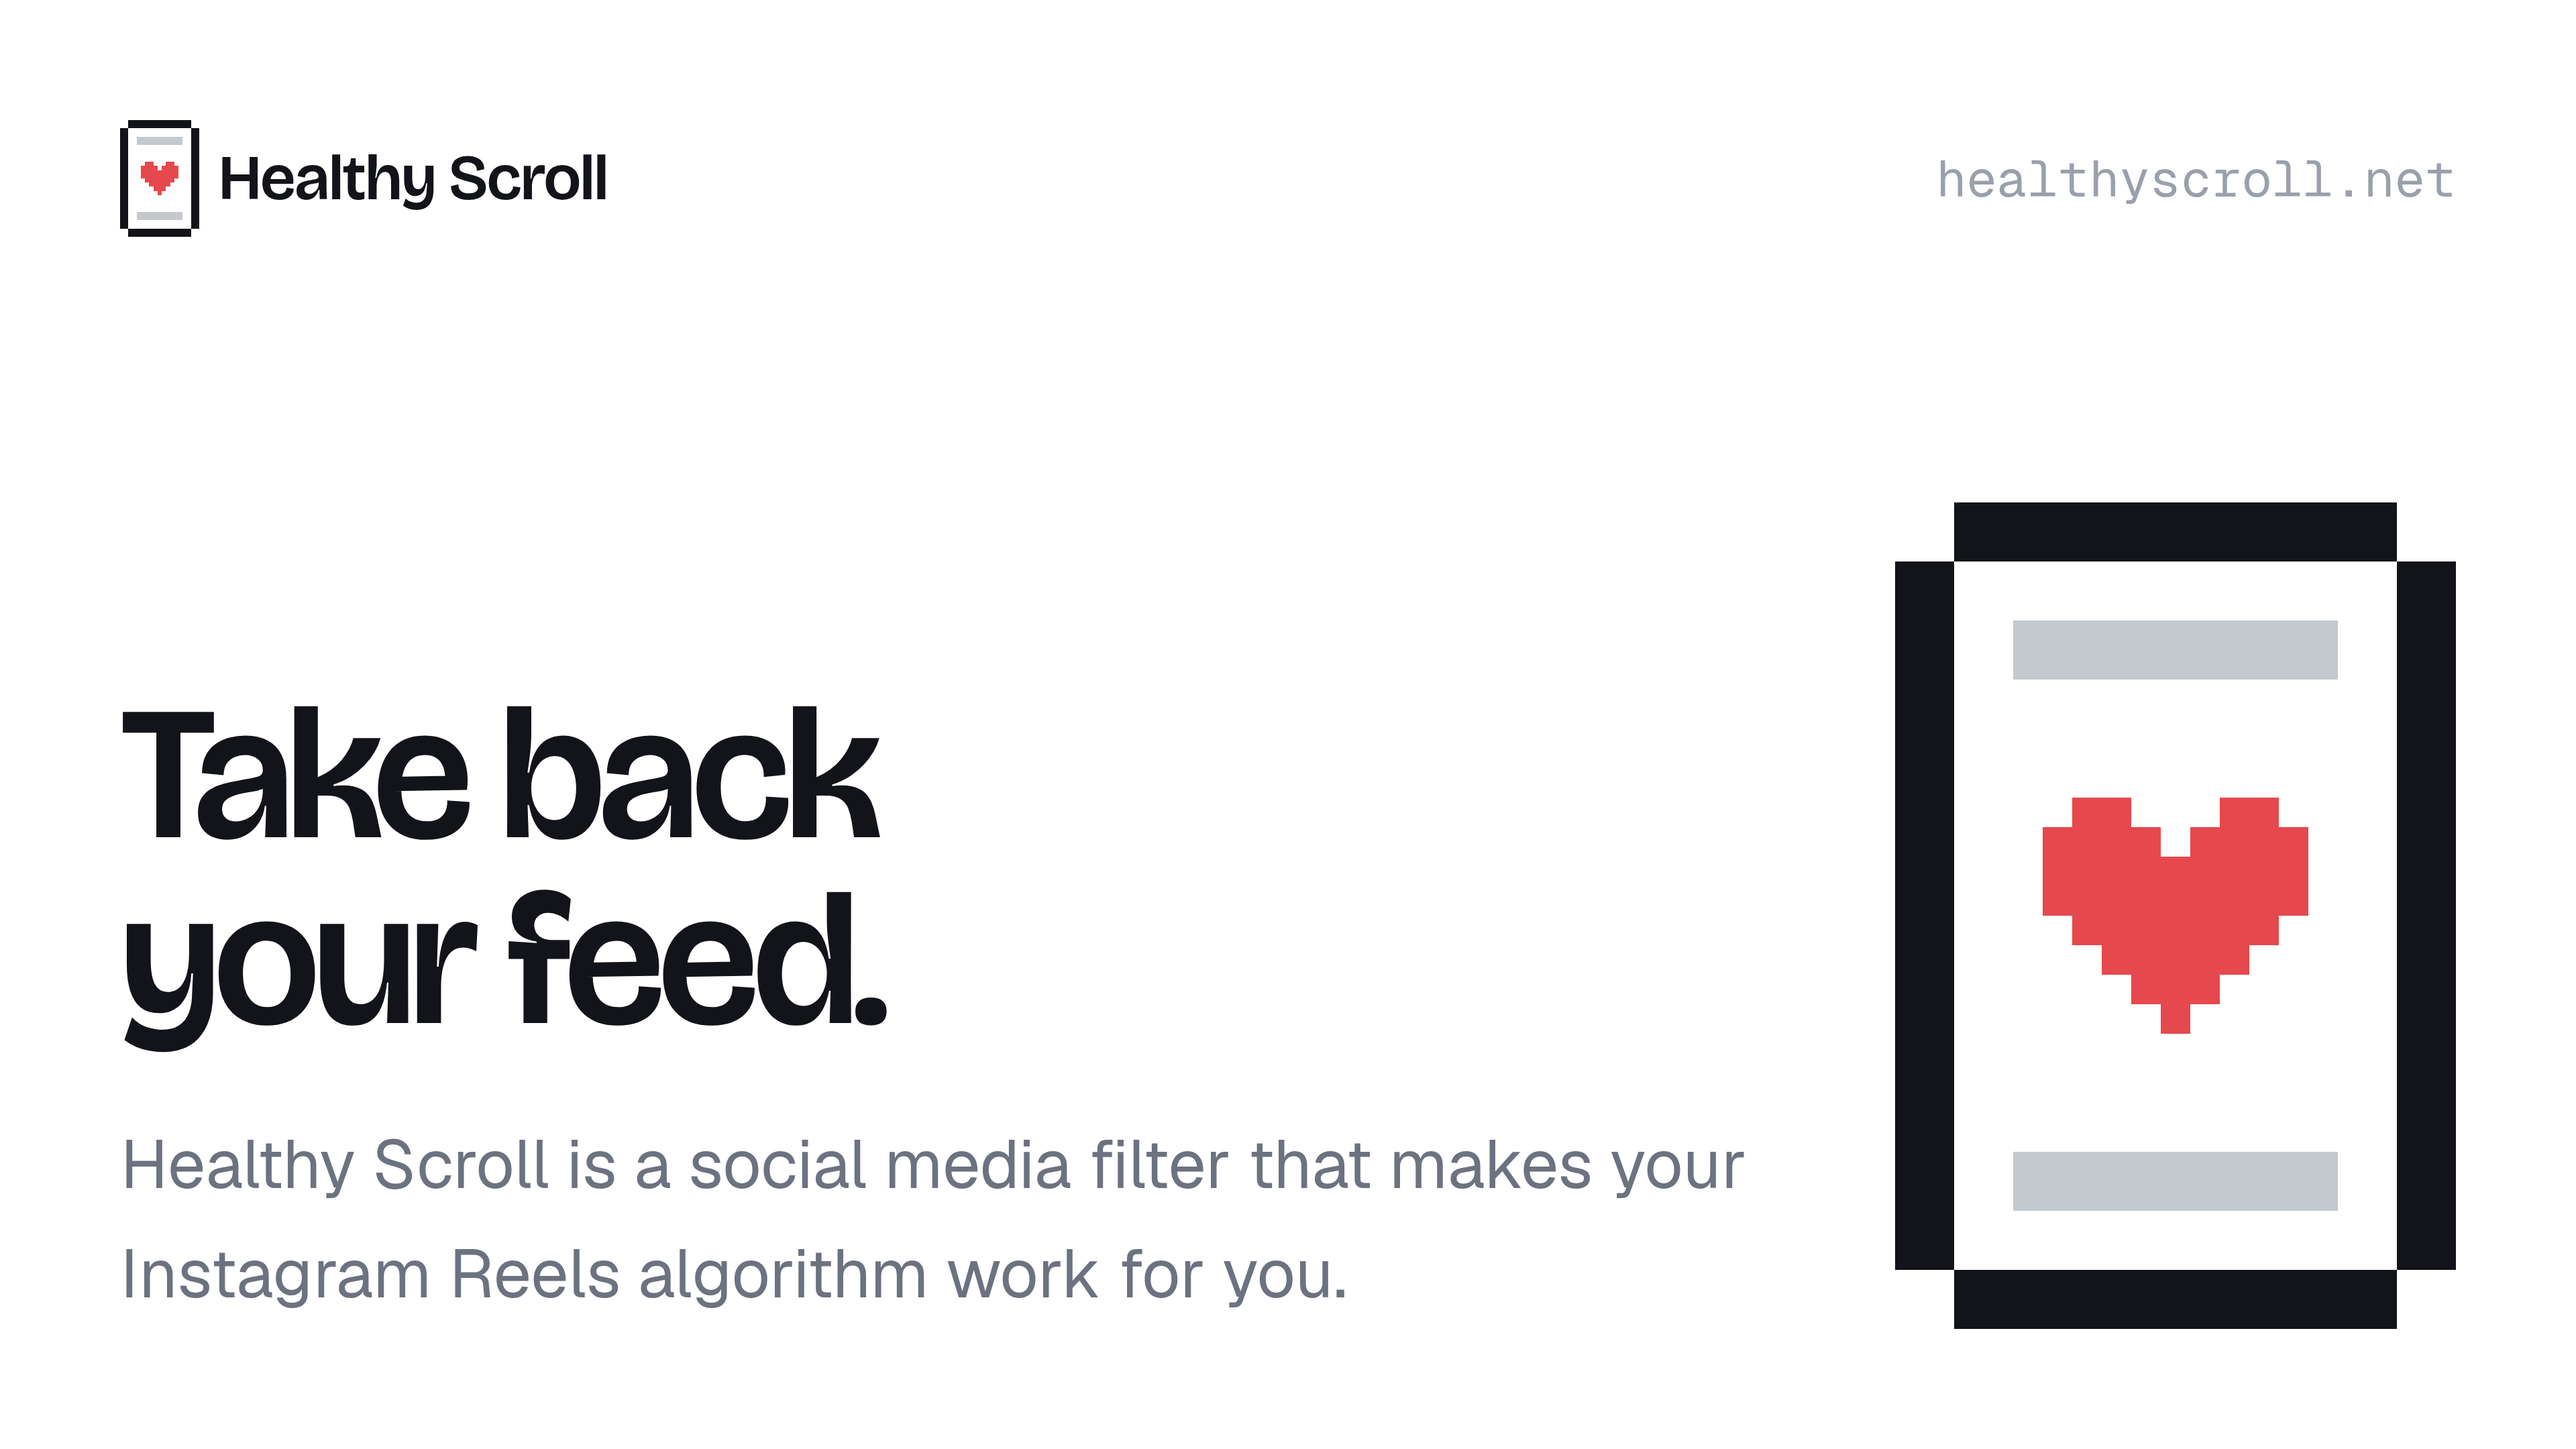
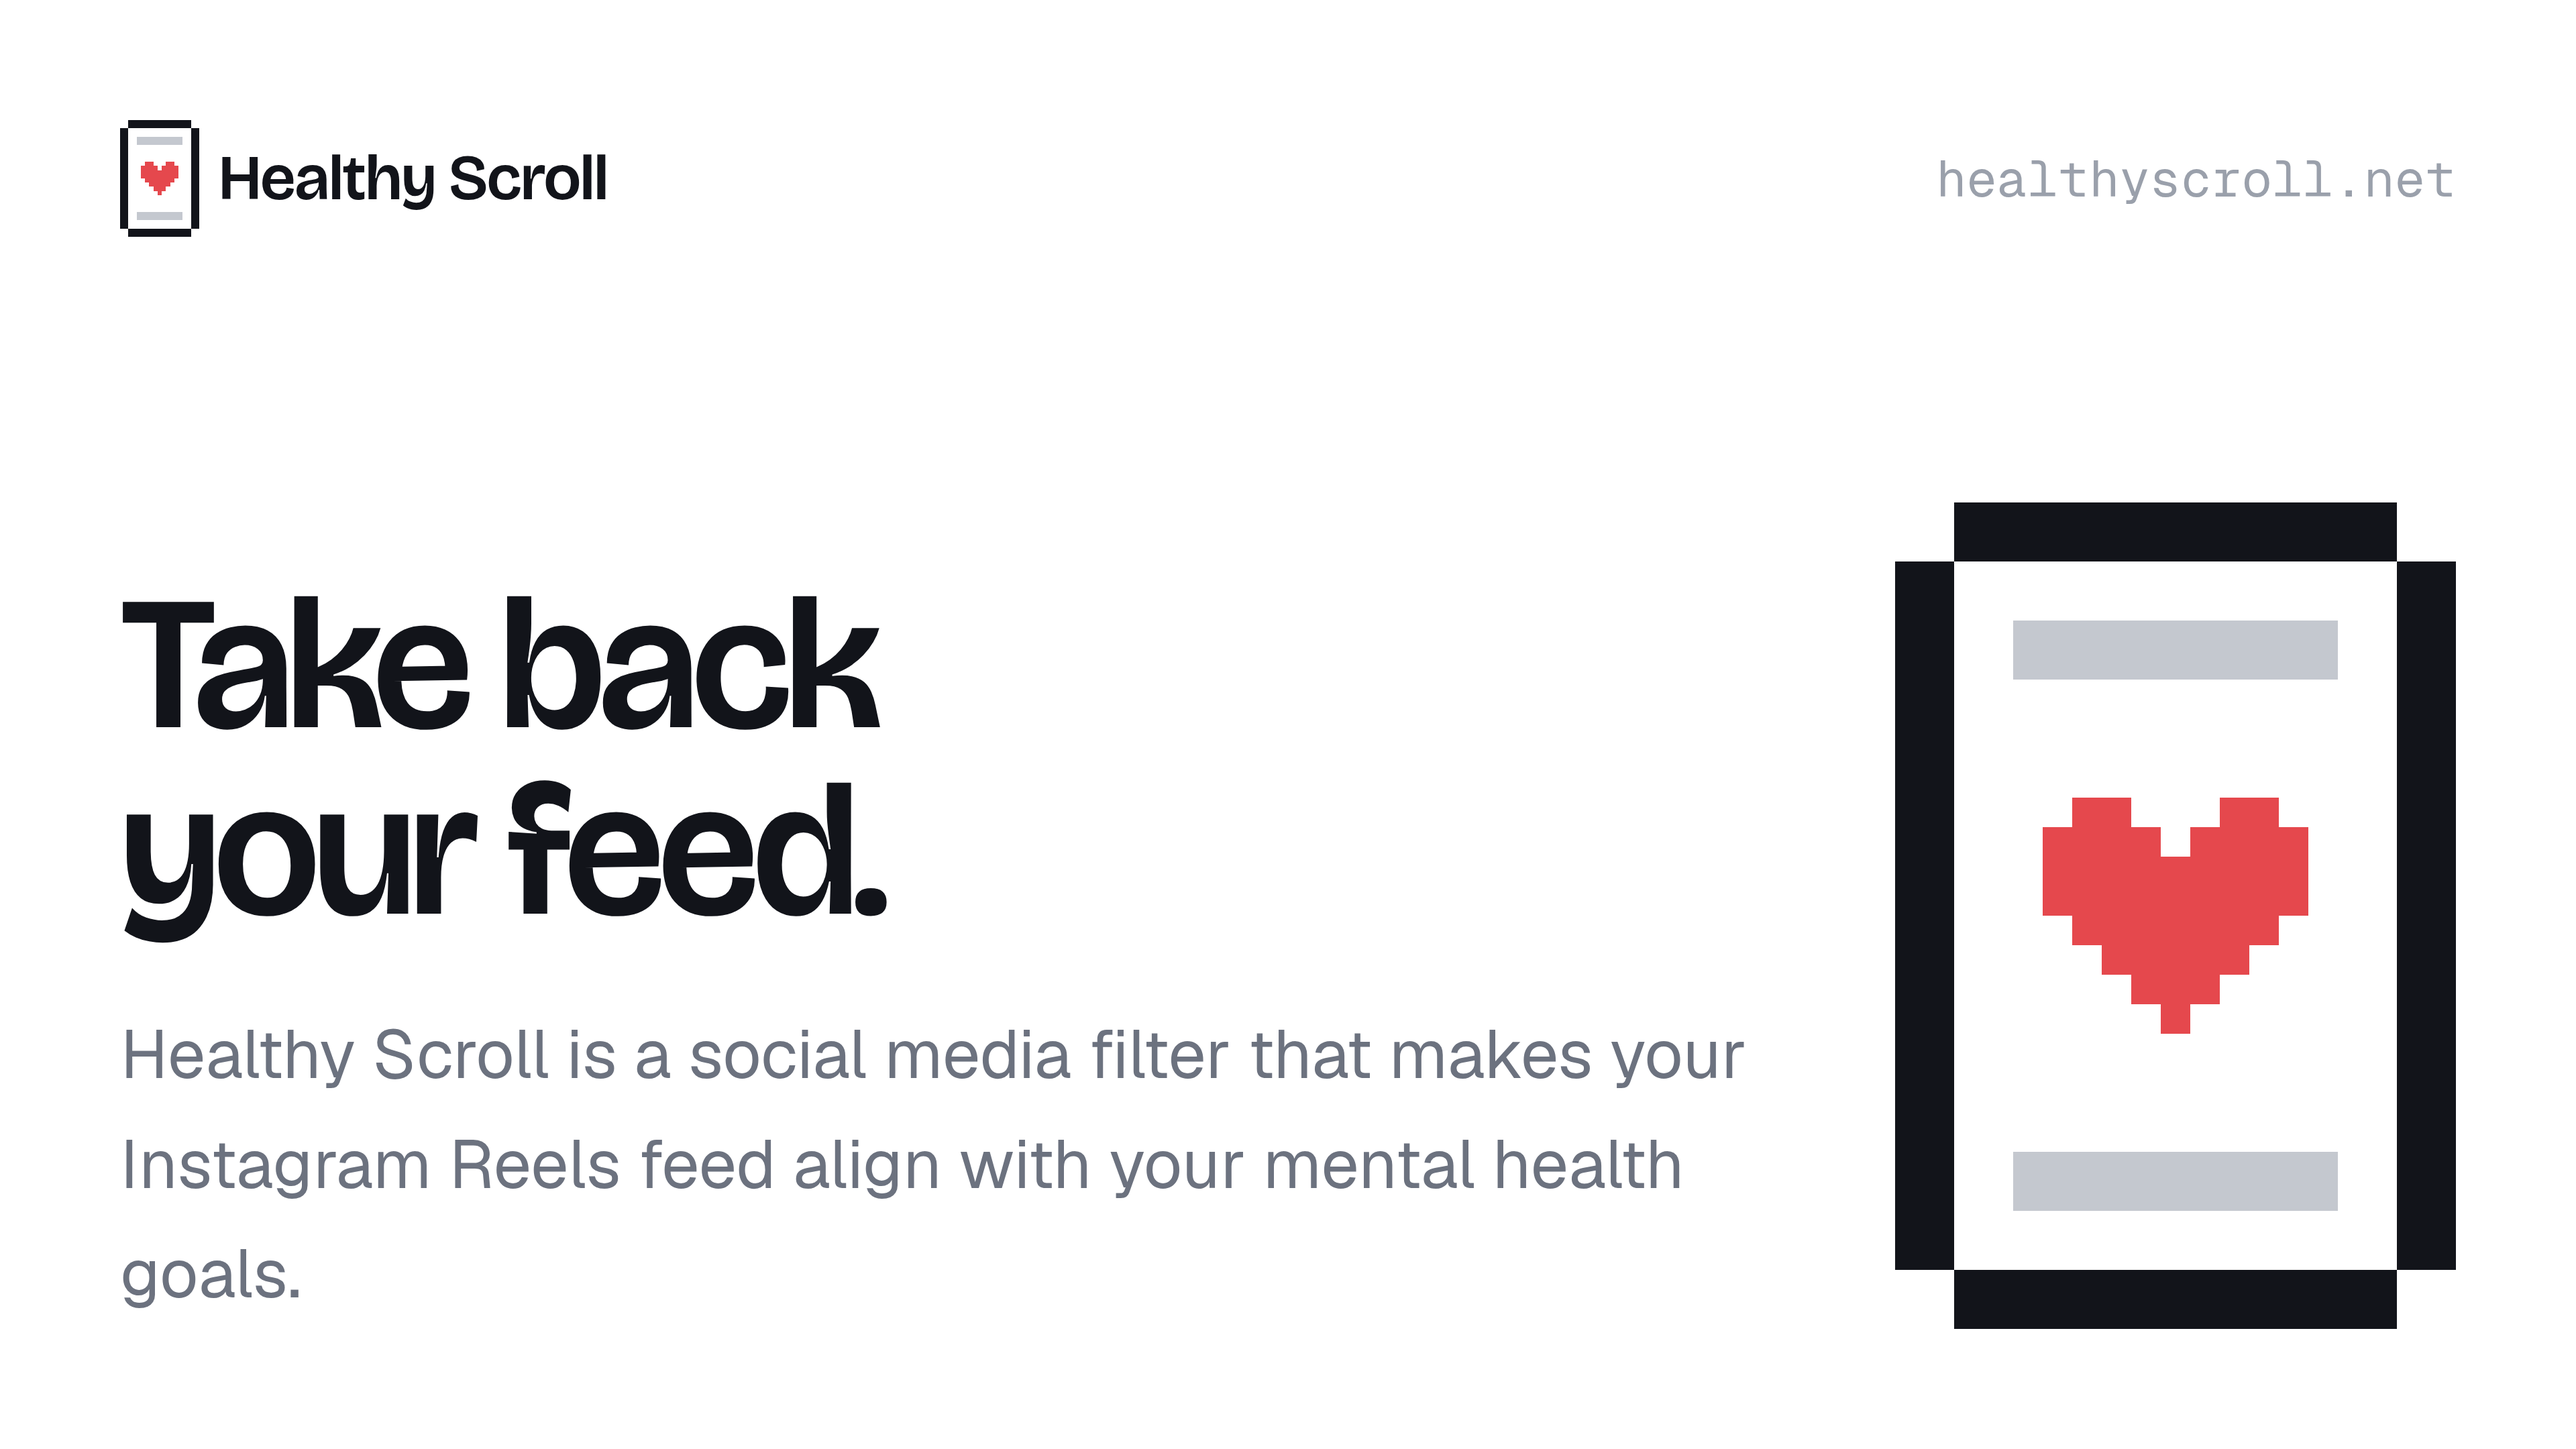
Update thumbnail

Changed region(s): [[0.0312, 0.4032, 0.6875, 0.7444], [0.0625, 0.7755, 0.6875, 0.8375], [0.0312, 0.8685, 0.5312, 0.8995]]

diff --git a/apps/web/components/frames/Thumbnail.tsx b/apps/web/components/frames/Thumbnail.tsx
@@ -42,7 +42,7 @@ export function Thumbnail({
               className={`leading-relaxed ${dark ? "text-paper/60" : "text-muted"}`}
               style={{ fontSize: 22 * t * body, marginTop: 20 * t, maxWidth: 560 * t * body }}
             >
-              Healthy Scroll is a social media filter that makes your Instagram Reels algorithm work for you.
+              Healthy Scroll is a social media filter that makes your Instagram Reels feed align with your mental health goals.
             </p>
           </div>
           {/* Whole units per cell, so the pixels stay crisp. */}
